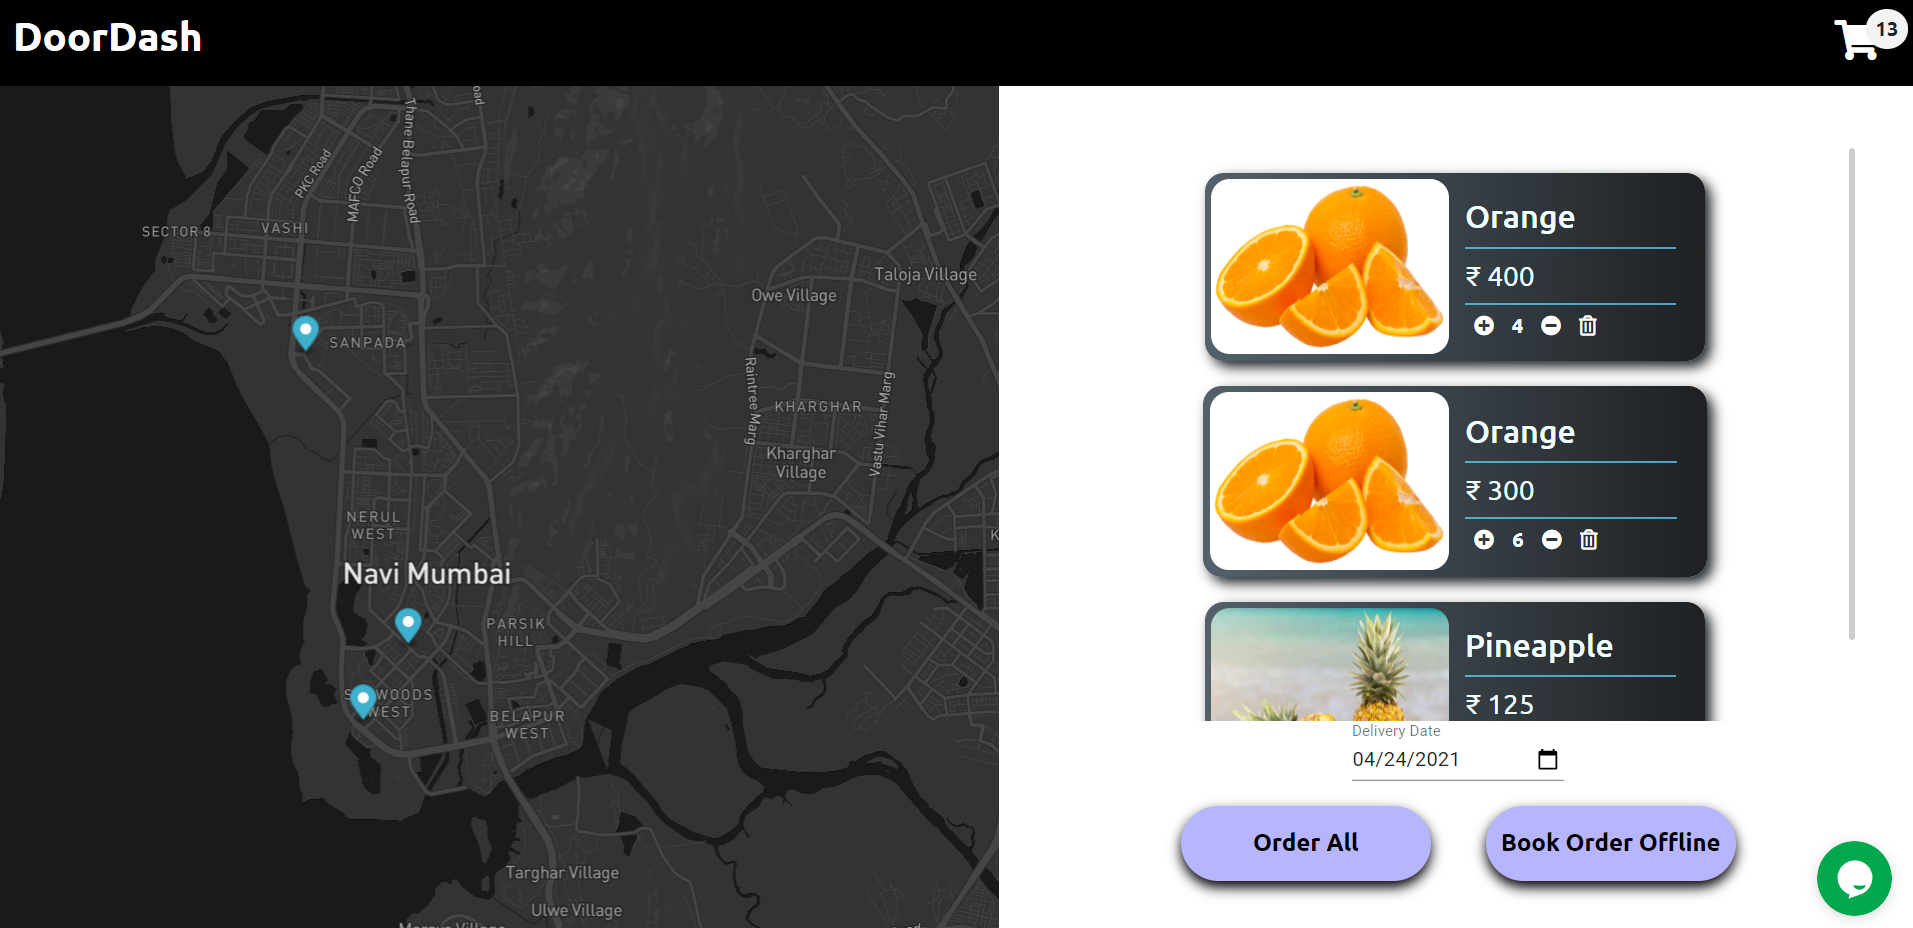
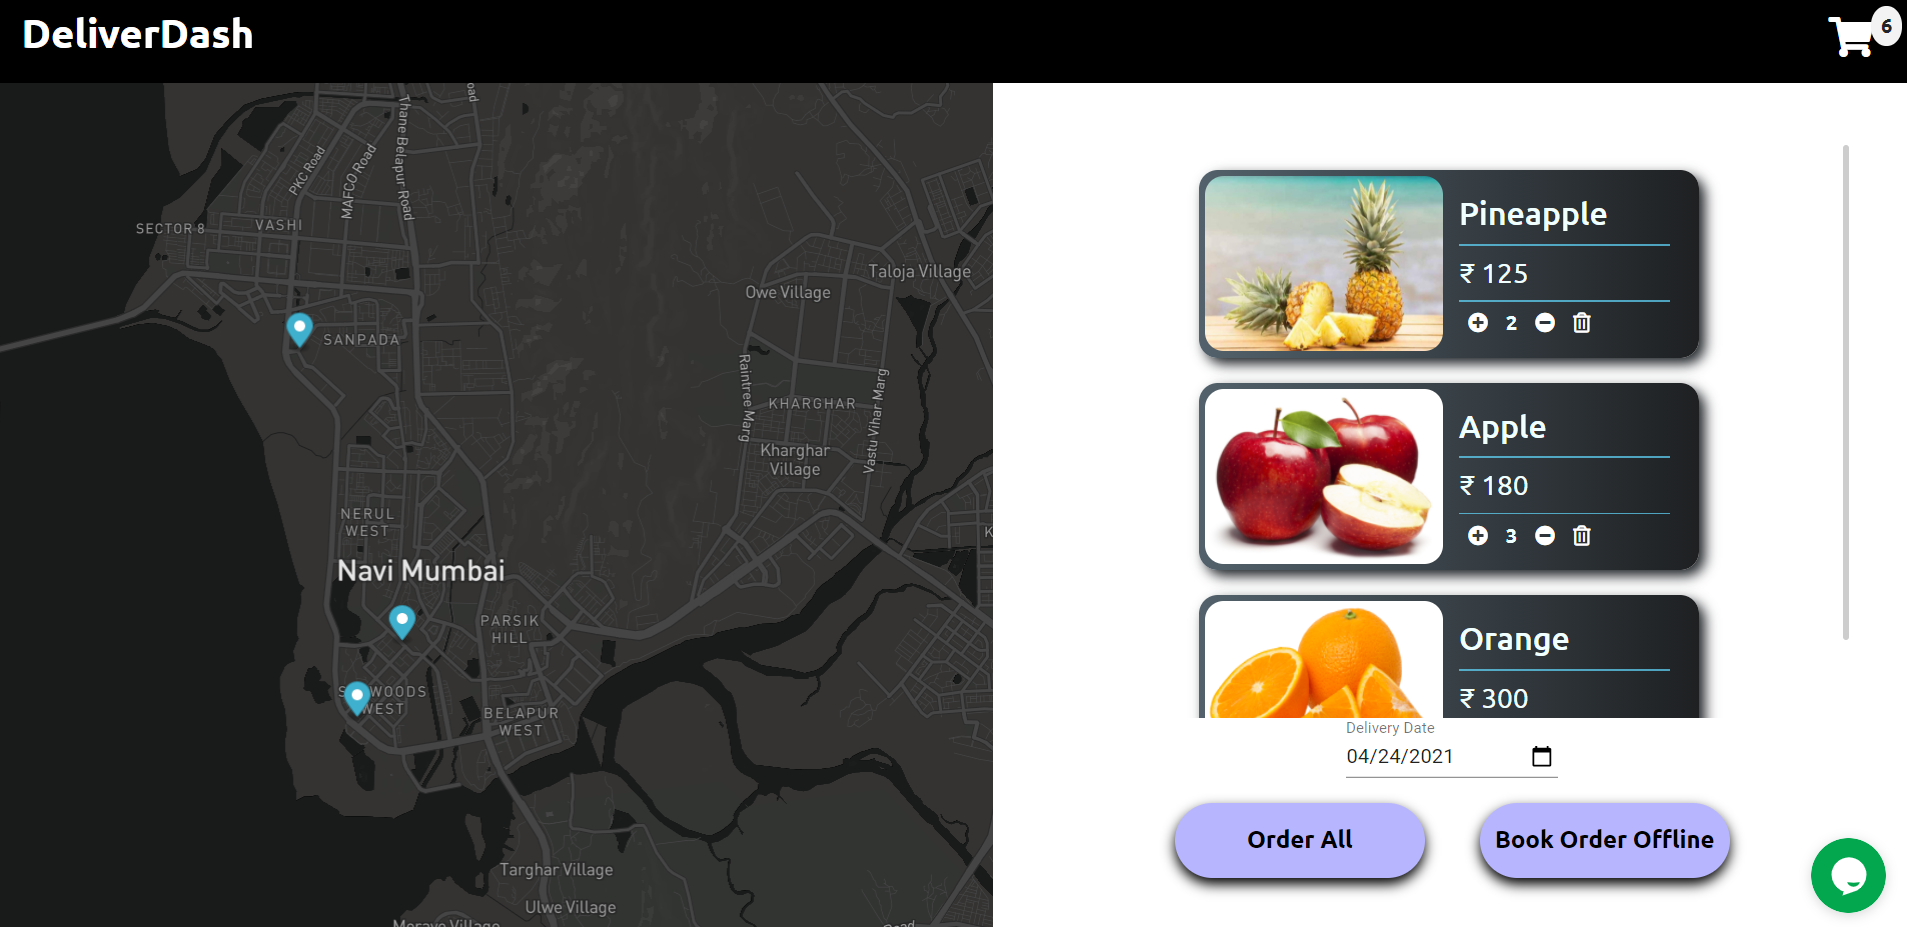
Images

diff --git a/client/src/components/Signup/Signup.js b/client/src/components/Signup/Signup.js
@@ -118,7 +118,7 @@ export default function Signup() {
         </div>
       }
       <h2 style={{textAlign: 'center', color: '#333333',fontWeight: '700',marginTop: '-5px',marginBottom: '8px'}}>Get Started</h2>
-      <h4 style={{textAlign: 'center', color: '#333333',fontWeight: '700',marginTop: '-5px',marginBottom: '8px'}}>Signup with <span style={{color: 'rgb(44, 173, 212)', fontSize: '1.5rem'}}>DoorDash!</span></h4>
+      <h4 style={{textAlign: 'center', color: '#333333',fontWeight: '700',marginTop: '-5px',marginBottom: '8px'}}>Signup with <span style={{color: 'rgb(44, 173, 212)', fontSize: '1.5rem'}}>DeliverDash!</span></h4>
       <ToastContainer/>
         <form style={{display: 'flex',flexDirection: 'column',alignItems: 'center', marginTop: '30px'}} className={classes.root} noValidate autoComplete="off">
             <input style={{padding:'1%',height: '45px',textAlign: 'center',borderRadius: '5px'}} value = {name} onChange = {(e)=>setName(e.target.value)} id="name" placeholder="Name" variant="outlined" />

diff --git a/client/src/components/Cart/Navbar.jsx b/client/src/components/Cart/Navbar.jsx
@@ -4,7 +4,7 @@ function Navbar({cartTotal}){
     const history = useHistory()
     return (
         <div style={styles.nav}>
-            <h2 style={{marginRight:'85%',color:'white',fontWeight:'600',cursor:'pointer'}} onClick = {()=>history.push("./login")}>DoorDash</h2>
+            <h2 style={{marginRight:'82%',color:'white',fontWeight:'600',cursor:'pointer'}} onClick = {()=>history.push("./login")}>DeliverDash</h2>
             <div style={styles.cartIconContainer}>
                 <i class="fas fa-shopping-cart fa-2x" style={styles.cartIcon}></i>
                 <span style={styles.cartCount}>{cartTotal}</span>

diff --git a/client/src/components/Navbar.jsx b/client/src/components/Navbar.jsx
@@ -209,7 +209,7 @@ export default function Navbar({ user, searchTerm, searchTermHandler }) {
             <MenuIcon />
           </IconButton> */}
           <Typography style={{fontSize: '1.7rem',fontWeight: '600',cursor:'pointer'}} onClick = {()=>history.push("./login")} className={classes.title} variant="h6" noWrap>
-            DoorDash
+            DeliverDash
           </Typography>
           {searchTermHandler?
           <div className={classes.search} style={{marginLeft: 50}}>
